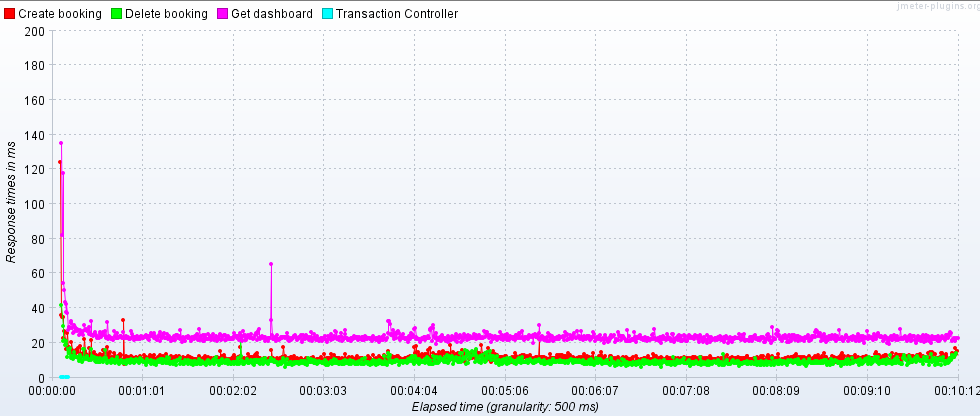
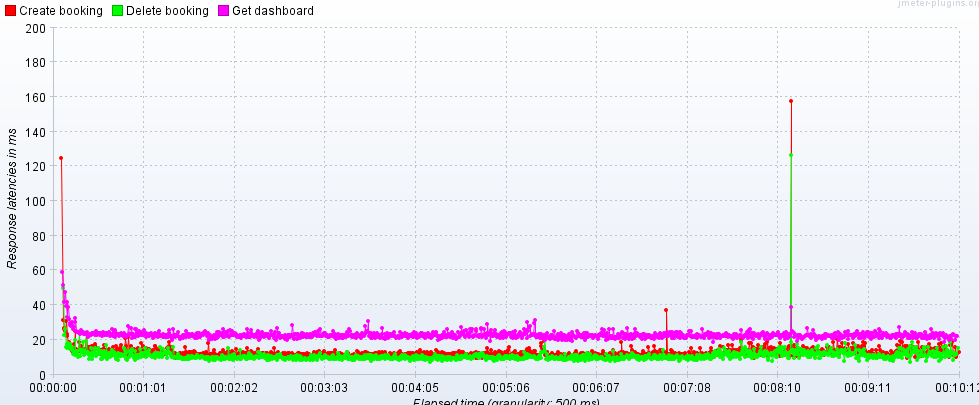
Add test results with authorization

diff --git a/README.md b/README.md
@@ -29,8 +29,8 @@ Load-testing was performed using Apache Jmeter with the following test plan: <br
 * Each user (thread) adds booking, requests dashboard and delete created booking. Every request performs with a random delay in the range of 0.5 seconds.
 * Load testing was performed for 10 minutes straight.<br />
 <br />
-After conducting test plan, 17495 requests were made without any errors. ![Summary report](./jmeter.testing/Test-summary.png)<br />
+After conducting test plan, 17411 requests were made without any errors. ![Summary report](./jmeter.testing/Test-summary.png)<br />
 <br />
-Average latency was under 30 ms, and the highest value was 135 ms. ![Latency graph](./jmeter.testing/Latency_graph.png)<br />
+Average latency was under 15 ms, and all requests latency was under 500 ms (as was mentioned in requirements) . ![Latency graph](./jmeter.testing/Latency_graph.png)<br />
 <br />
 To conclude, those performance results totally satisfies the requirements.
